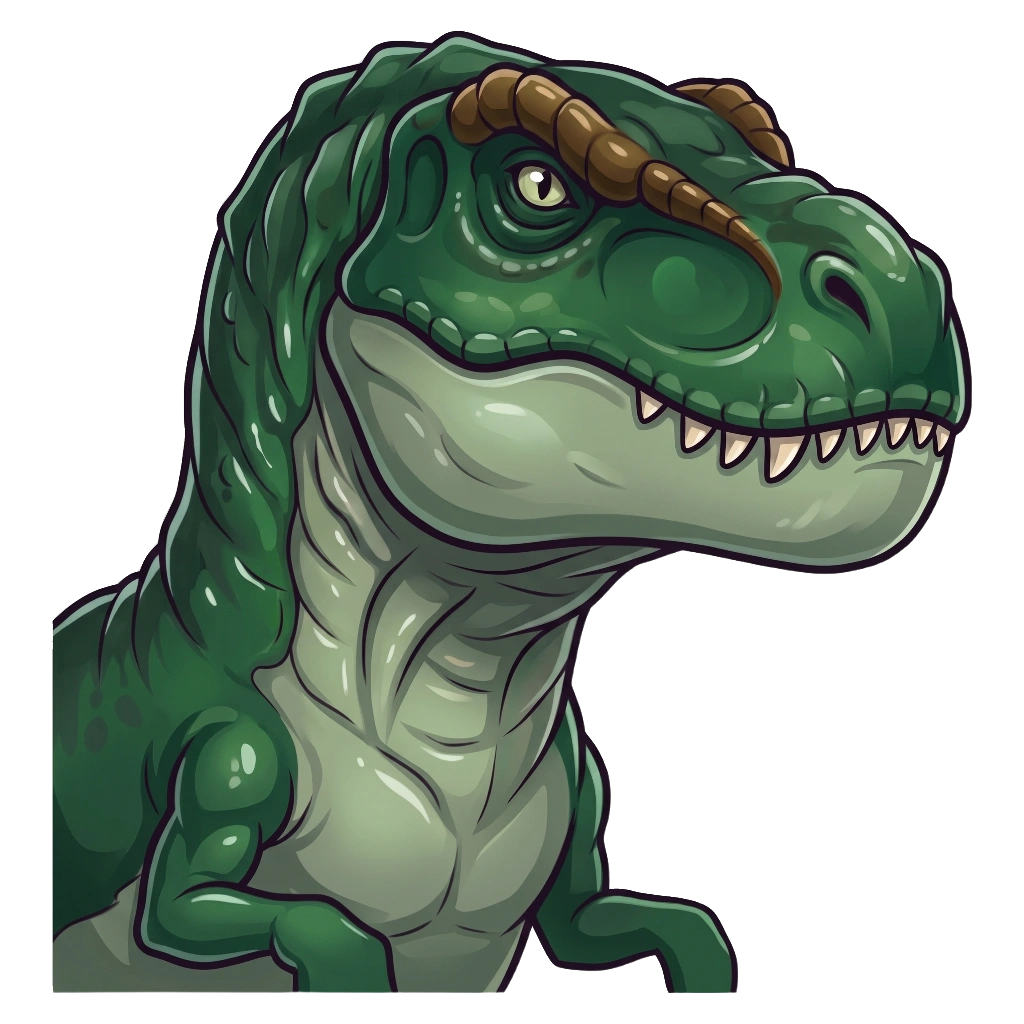
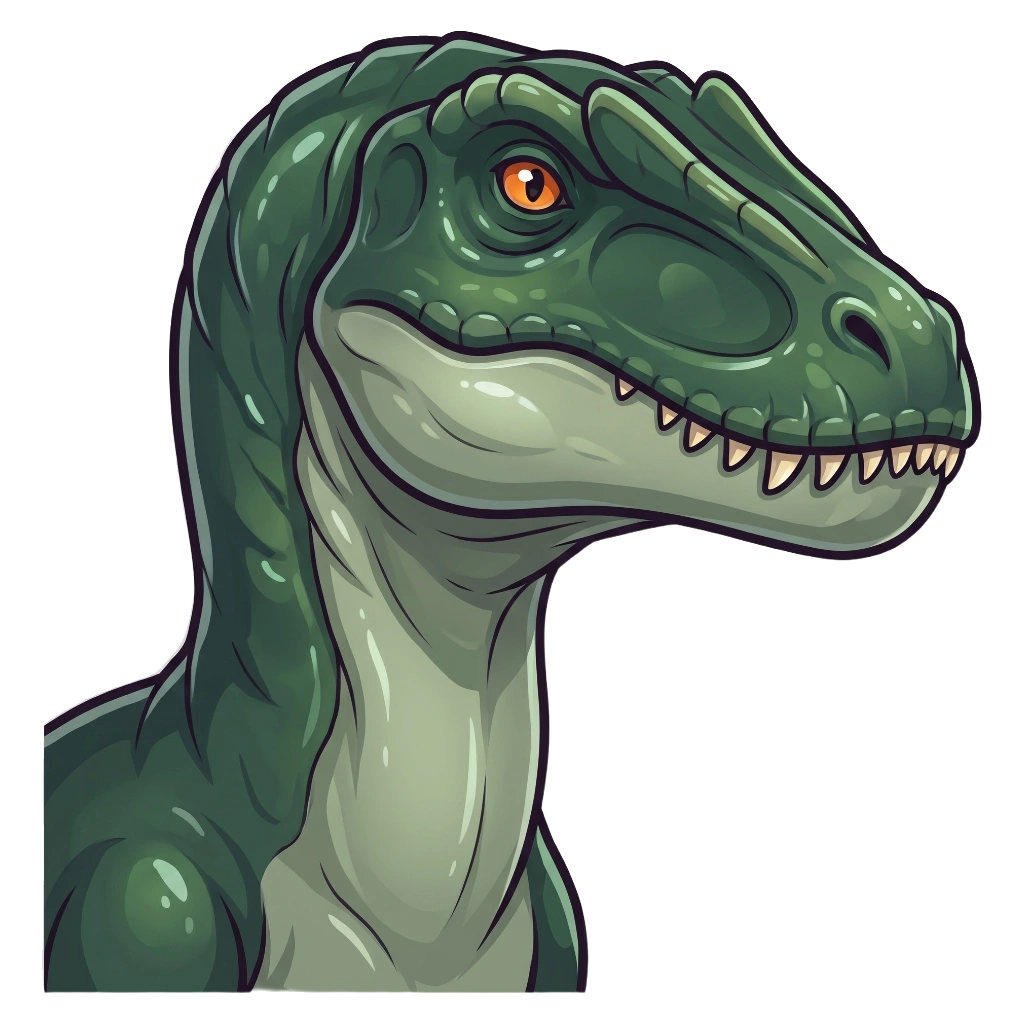
Regenerate sinosaurus, which shipped with a visible forelimb
Review caught a bent forelimb at the lower left of the committed file --
upper arm, elbow and forearm, not a shoulder cut by the frame edge. The
batch report had recorded this species as fixed on its first retry; it
was not.

The root cause was already documented and is worth keeping: of the eight
archetype references, bruiser-carnivore is the only one with a clawed
hand visible in frame, so image-edits off it inherit forelimbs. What was
wrong was the remedy. A negative clause competes with what the reference
actually shows; naming the crop line gives the model something positive
to satisfy instead, and that is what finally cleared it.

Corrects the prose that claimed one retry fixed all four affected
species, records the stronger wording for future edits off that
reference, and fixes the framing-block row count.

diff --git a/docs/assets/prompts.md b/docs/assets/prompts.md
@@ -1832,11 +1832,23 @@ image-edit off a reference that itself shows forelimbs inherits them —
 clawed hand actually visible in frame. The clause alone was not sufficient
 this round: four of the first twelve generations in this batch (allosaurus,
 ceratosaurus, nanuqsaurus, sinosaurus — all `bruiser-carnivore`) still came
-back with a hand or claw visible. A second, more literal sentence fixed all
-four on one retry and was carried into every remaining generation in the
-batch as a precaution:
+back with a hand or claw visible. A second, more literal sentence was added
+and carried into every remaining generation in the batch as a precaution:
 
 > Crop the frame tight at the base of the neck and the very top of the shoulders so that no forelimb, hand, finger, or claw is visible anywhere in the image.
+
+That sentence cleared three of the four. **`sinosaurus` was not fixed by it**
+and shipped with a bent forelimb visible at the lower left, which review
+caught after the batch had already been committed. What finally cleared it
+was harder still — an explicit crop instruction plus an enumeration of the
+parts being excluded, rather than a single negative clause:
+
+> CROP AT THE CHEST: show only the head, the neck, and the very top of the shoulders. The image must contain NO forelimbs of any kind - no arms, no upper arms, no elbows, no forearms, no wrists, no hands, no claws, no fingers - and no chest, no belly, no torso below the shoulder line. The lower edge of the picture cuts straight across the base of the neck.
+
+Prefer that wording for any future `bruiser-carnivore` edit. The lesson is
+that a negative clause ("no arms") competes with what the reference image
+actually shows, while naming the crop line gives the model something
+positive to satisfy.
 
 It sits immediately after the "no arms, no hands, no torso" sentence and
 before the no-glow sentence. `deinosuchus` (`bruiser-carnivore`) is the one
@@ -1849,7 +1861,7 @@ visible inside it. It ships on the shared `dinos/bruiser-carnivore.webp`
 fallback rather than a fourth generation on one file.
 
 **CRITICAL FRAMING block**, for any species whose silhouette grows past the
-reference — used for 16 of the 44 rows below, wherever the Framing column is
+reference — used for 17 of the 44 rows below, wherever the Framing column is
 not `—`:
 
 > CRITICAL FRAMING: zoom out so the ENTIRE creature - {PARTS} - sits well inside the frame, small in the canvas, surrounded by a wide band of empty background on all four sides. Nothing may touch, run off, or be cropped by any edge of the image, especially the {THREATENED} edges.
@@ -1879,7 +1891,7 @@ species, coloring and framing.
 | ceratosaurus | dinos/ceratosaurus.webp | bruiser-carnivore | a Ceratosaurus | a single blade-like nasal horn above the snout, small bony ridges over the eyes, and a row of small bumpy osteoderms down the neck, teal-green hide with dark charcoal mottling and a pale yellow-cream underside | — |
 | deinosuchus | *(not shipped — see above)* | bruiser-carnivore | a Deinosuchus | a giant prehistoric crocodilian with a broad flat armor-plated snout, heavy overlapping bony scutes, small eyes set high on the head and massive conical teeth, swamp-green plated hide with dark olive-black banding and a pale khaki throat | — |
 | nanuqsaurus | dinos/nanuqsaurus.webp | bruiser-carnivore | a Nanuqsaurus | a small Arctic tyrannosaur with a compact deep skull, thick brow ridges and a short snout, white-and-frost-blue mottled hide with a pale icy gray-blue underside | — |
-| sinosaurus | dinos/sinosaurus.webp | bruiser-carnivore | a Sinosaurus | a crested early tyrannosauroid with a pair of low ridge-crests running from above the eyes back along the skull and a slender jaw of fine teeth, deep forest-green hide with dark bronze-brown crest ridges and a pale sage underside | — |
+| sinosaurus | dinos/sinosaurus.webp | bruiser-carnivore | a Sinosaurus | a mid-sized theropod head with a pair of thin bony crests running lengthwise along the top of the snout, a long narrow jaw with prominent teeth, an alert forward-set eye, and deep forest-green scales with a pale sage throat | — (regenerated with the CROP AT THE CHEST wording above — the plain no-arms clause did not clear its forelimb) |
 | spinosaurus | dinos/spinosaurus.webp | bruiser-carnivore | a Spinosaurus | a long crocodile-like snout lined with conical teeth and a tall sail of skin rising from the back of the neck and shoulders, sandy ochre-tan hide with a dark maroon-red sail membrane and a pale cream throat | the whole head, the full neck and the complete tall sail rising off the shoulders / top and left |
 | tylosaurus | dinos/tylosaurus.webp | bruiser-carnivore | a Tylosaurus | a giant mosasaur with a long paddle-shaped snout, rows of conical teeth and smooth streamlined skin, countershaded steel-gray-blue back and a pale silvery-white throat and jaw | — |
 | iguanodon | dinos/iguanodon.webp | bruiser-herbivore | an Iguanodon | a long horse-like skull with a toothless beak-like tip and a broad muscular cheek pouch, warm olive-brown hide with a pale sandy-tan underside and faint darker striping | — |
